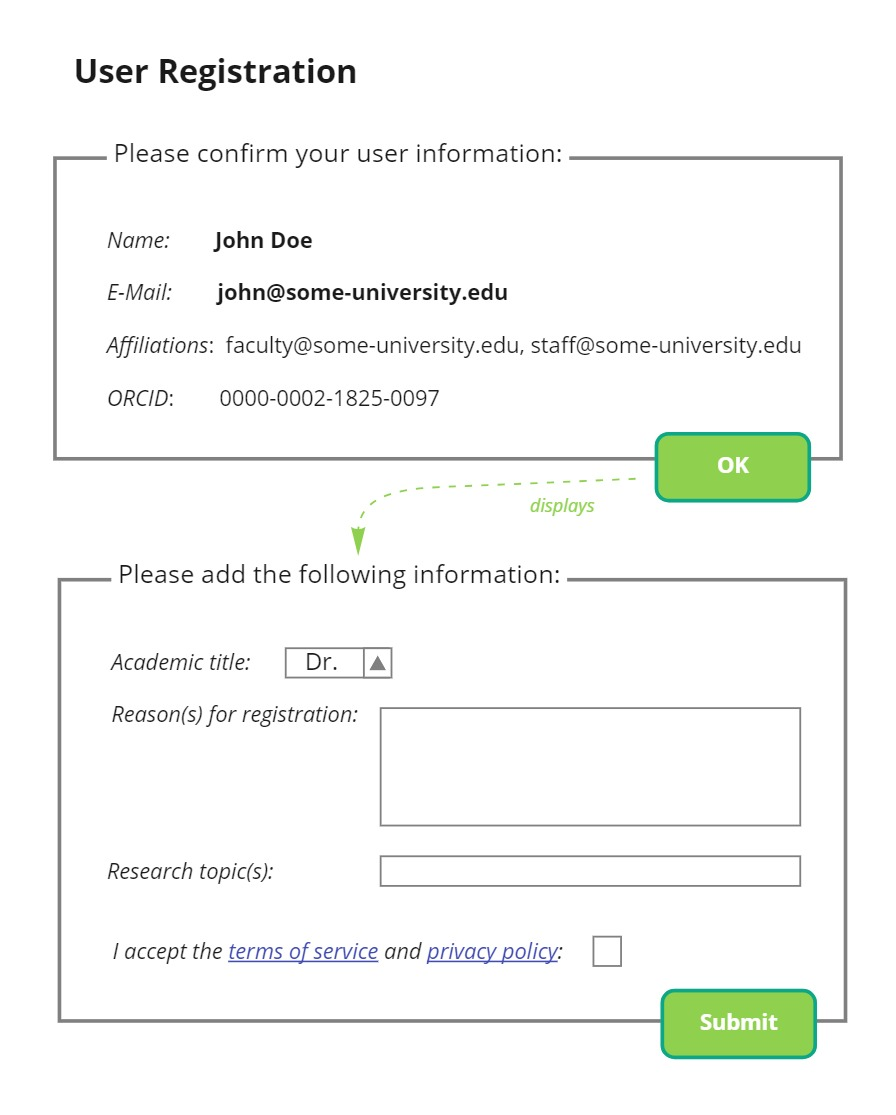
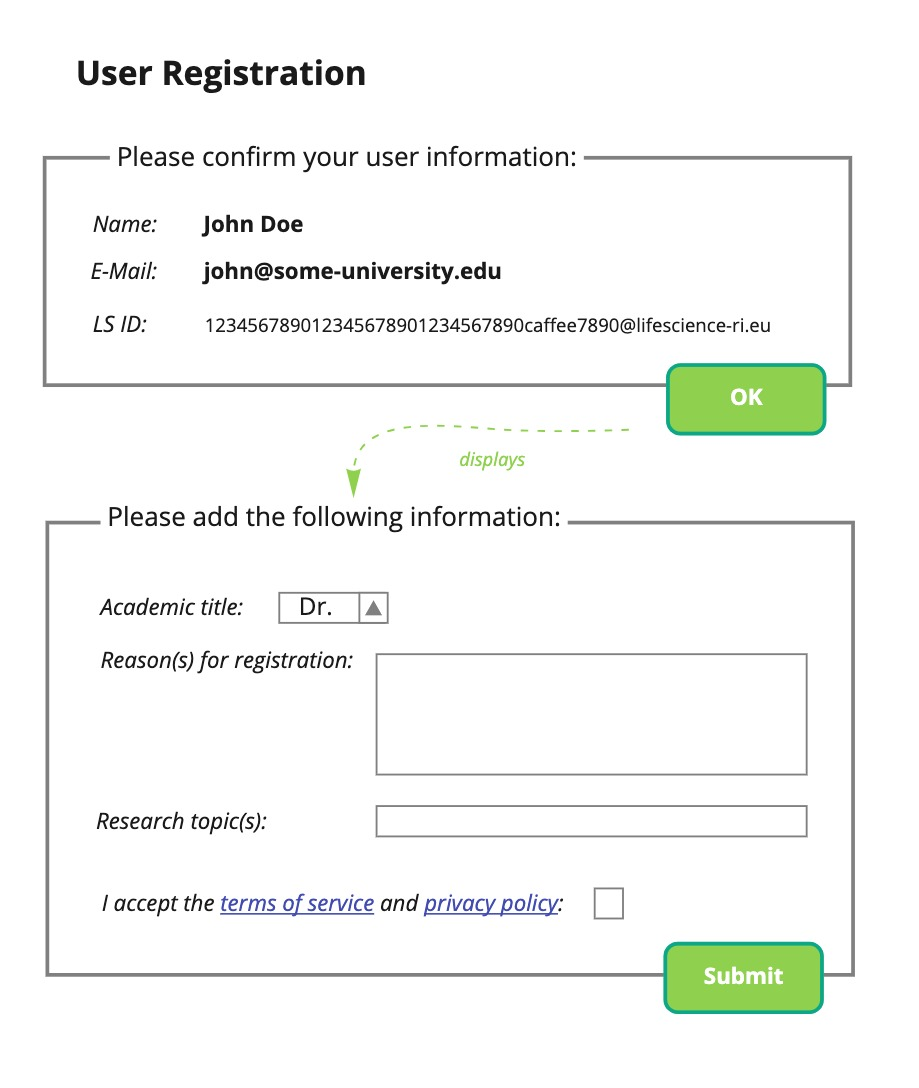
Reduce synced fields and minor changes

Changed region(s): [[0.0312, 0.125, 0.9688, 0.9688], [0.0938, 0.0312, 0.4062, 0.0938]]

diff --git a/15-morning-sun-star/technical_specification.md b/15-morning-sun-star/technical_specification.md
@@ -64,14 +64,17 @@ Note that a part of the use data originates at the external identity providers (
 
 This part of the user data that is kept in sync with the external identity provider consists of the following fields:
 
-- subject (LS Login ID)
-- issuer (currently only LS AAI)
+- ls_id (LS Login ID)
 - name (full name, see below)
 - email
+
+The name can also be stored in two separate components (first name and last name or given name and family name) if these can be reliably retrieved via OIDC - currently only the full name (display name) is documented for LS Login. Also note that the semantics of these name parts can be different for international users coming from different cultures.
+
+The following fields that are provided by the external identity provider are currently *not* requested and synchronized:
 - affiliation
 - orcid
 
-The name can also be stored in two separate components (first name and last name or given name and family name) if these can be reliably retrieved via OIDC - currently only the full name (display name) is documented for LS Login. Also note that the semantics of these name parts can be different for international users coming from different cultures.
+Therefore, it may be possible to extract all the necessary information from the access token or ID token alone, and the requests to the UserInfo endpoint of LS Login can be omitted.
 
 The part of the user data that is not provided externally must be provided in the registration process and consists of the following fields:
 
